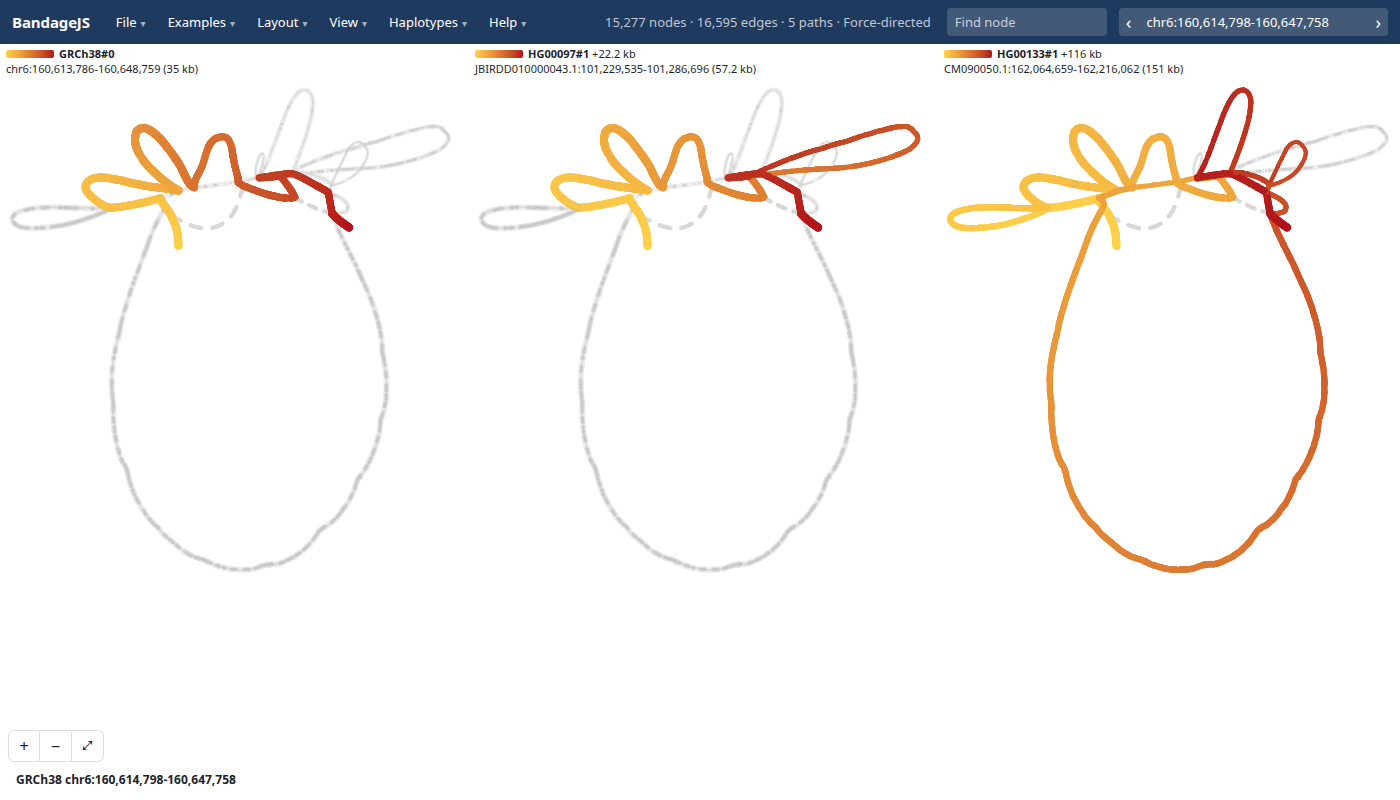
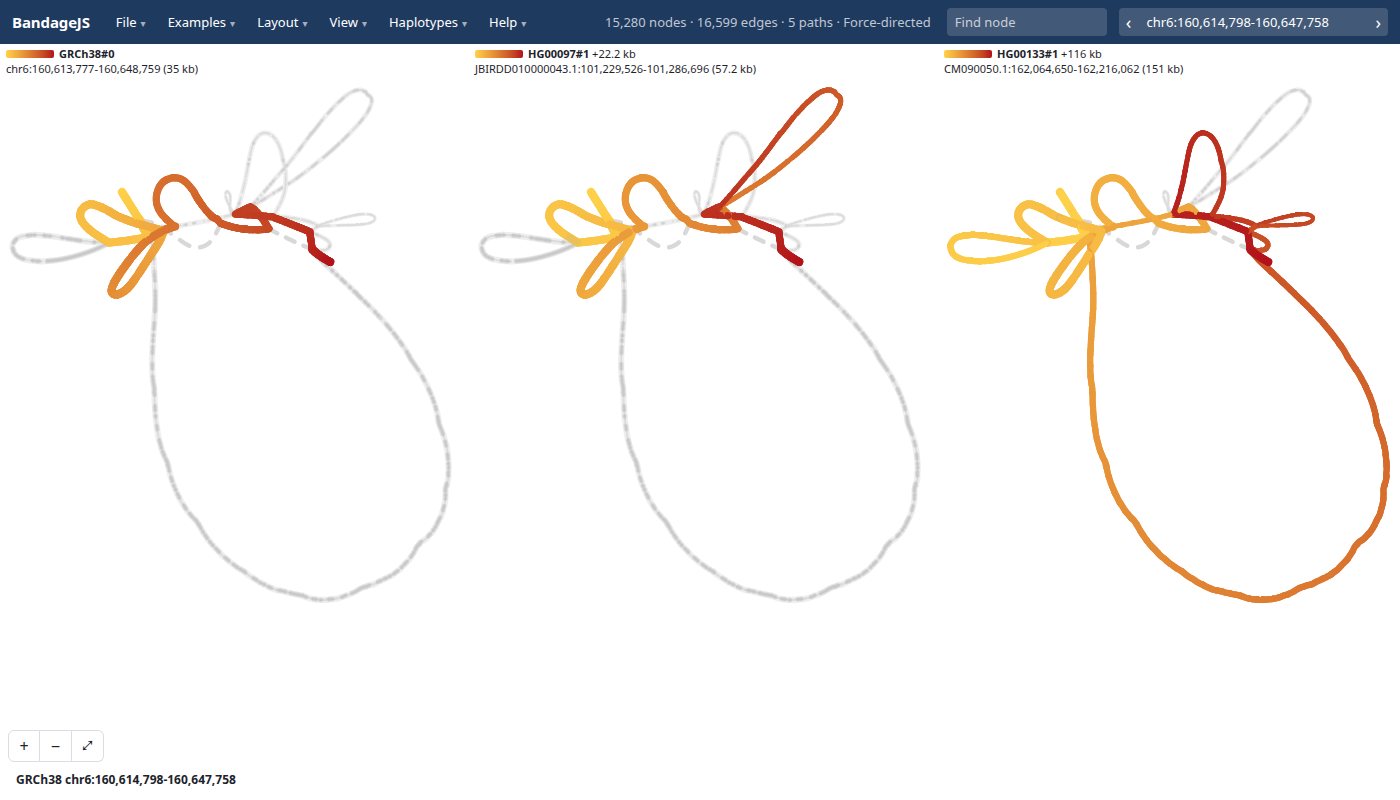
Cut every HPRC figure from the walk file, on bandage-core 10.3.1
10.3.1 names a walk cut's reference path from its SN tags, so walk keys
read their length change and the reference keeps its charcoal. The
facet and overlay figures and the haplotypes doc link move off gbz=hprc.

diff --git a/docs/haplotypes.md b/docs/haplotypes.md
@@ -23,7 +23,7 @@ HG00133 has 116 kb more:
 The address stores the walks and the facet:
 
 ```
-?gbz=hprc&loc=chr6:160,614,798-160,647,758&haps=HG00097,HG00133&walk=GRCh38%230%23chr6&walk=HG00133%231%23CM090050.1&facet=walk&columns=2
+?walks=hprc&loc=chr6:160,614,798-160,647,758&haps=HG00097,HG00133&walk=GRCh38%230%23chr6&walk=HG00133%231%23CM090050.1&facet=walk&columns=2
 ```
 
 See [links.md](links.md).
